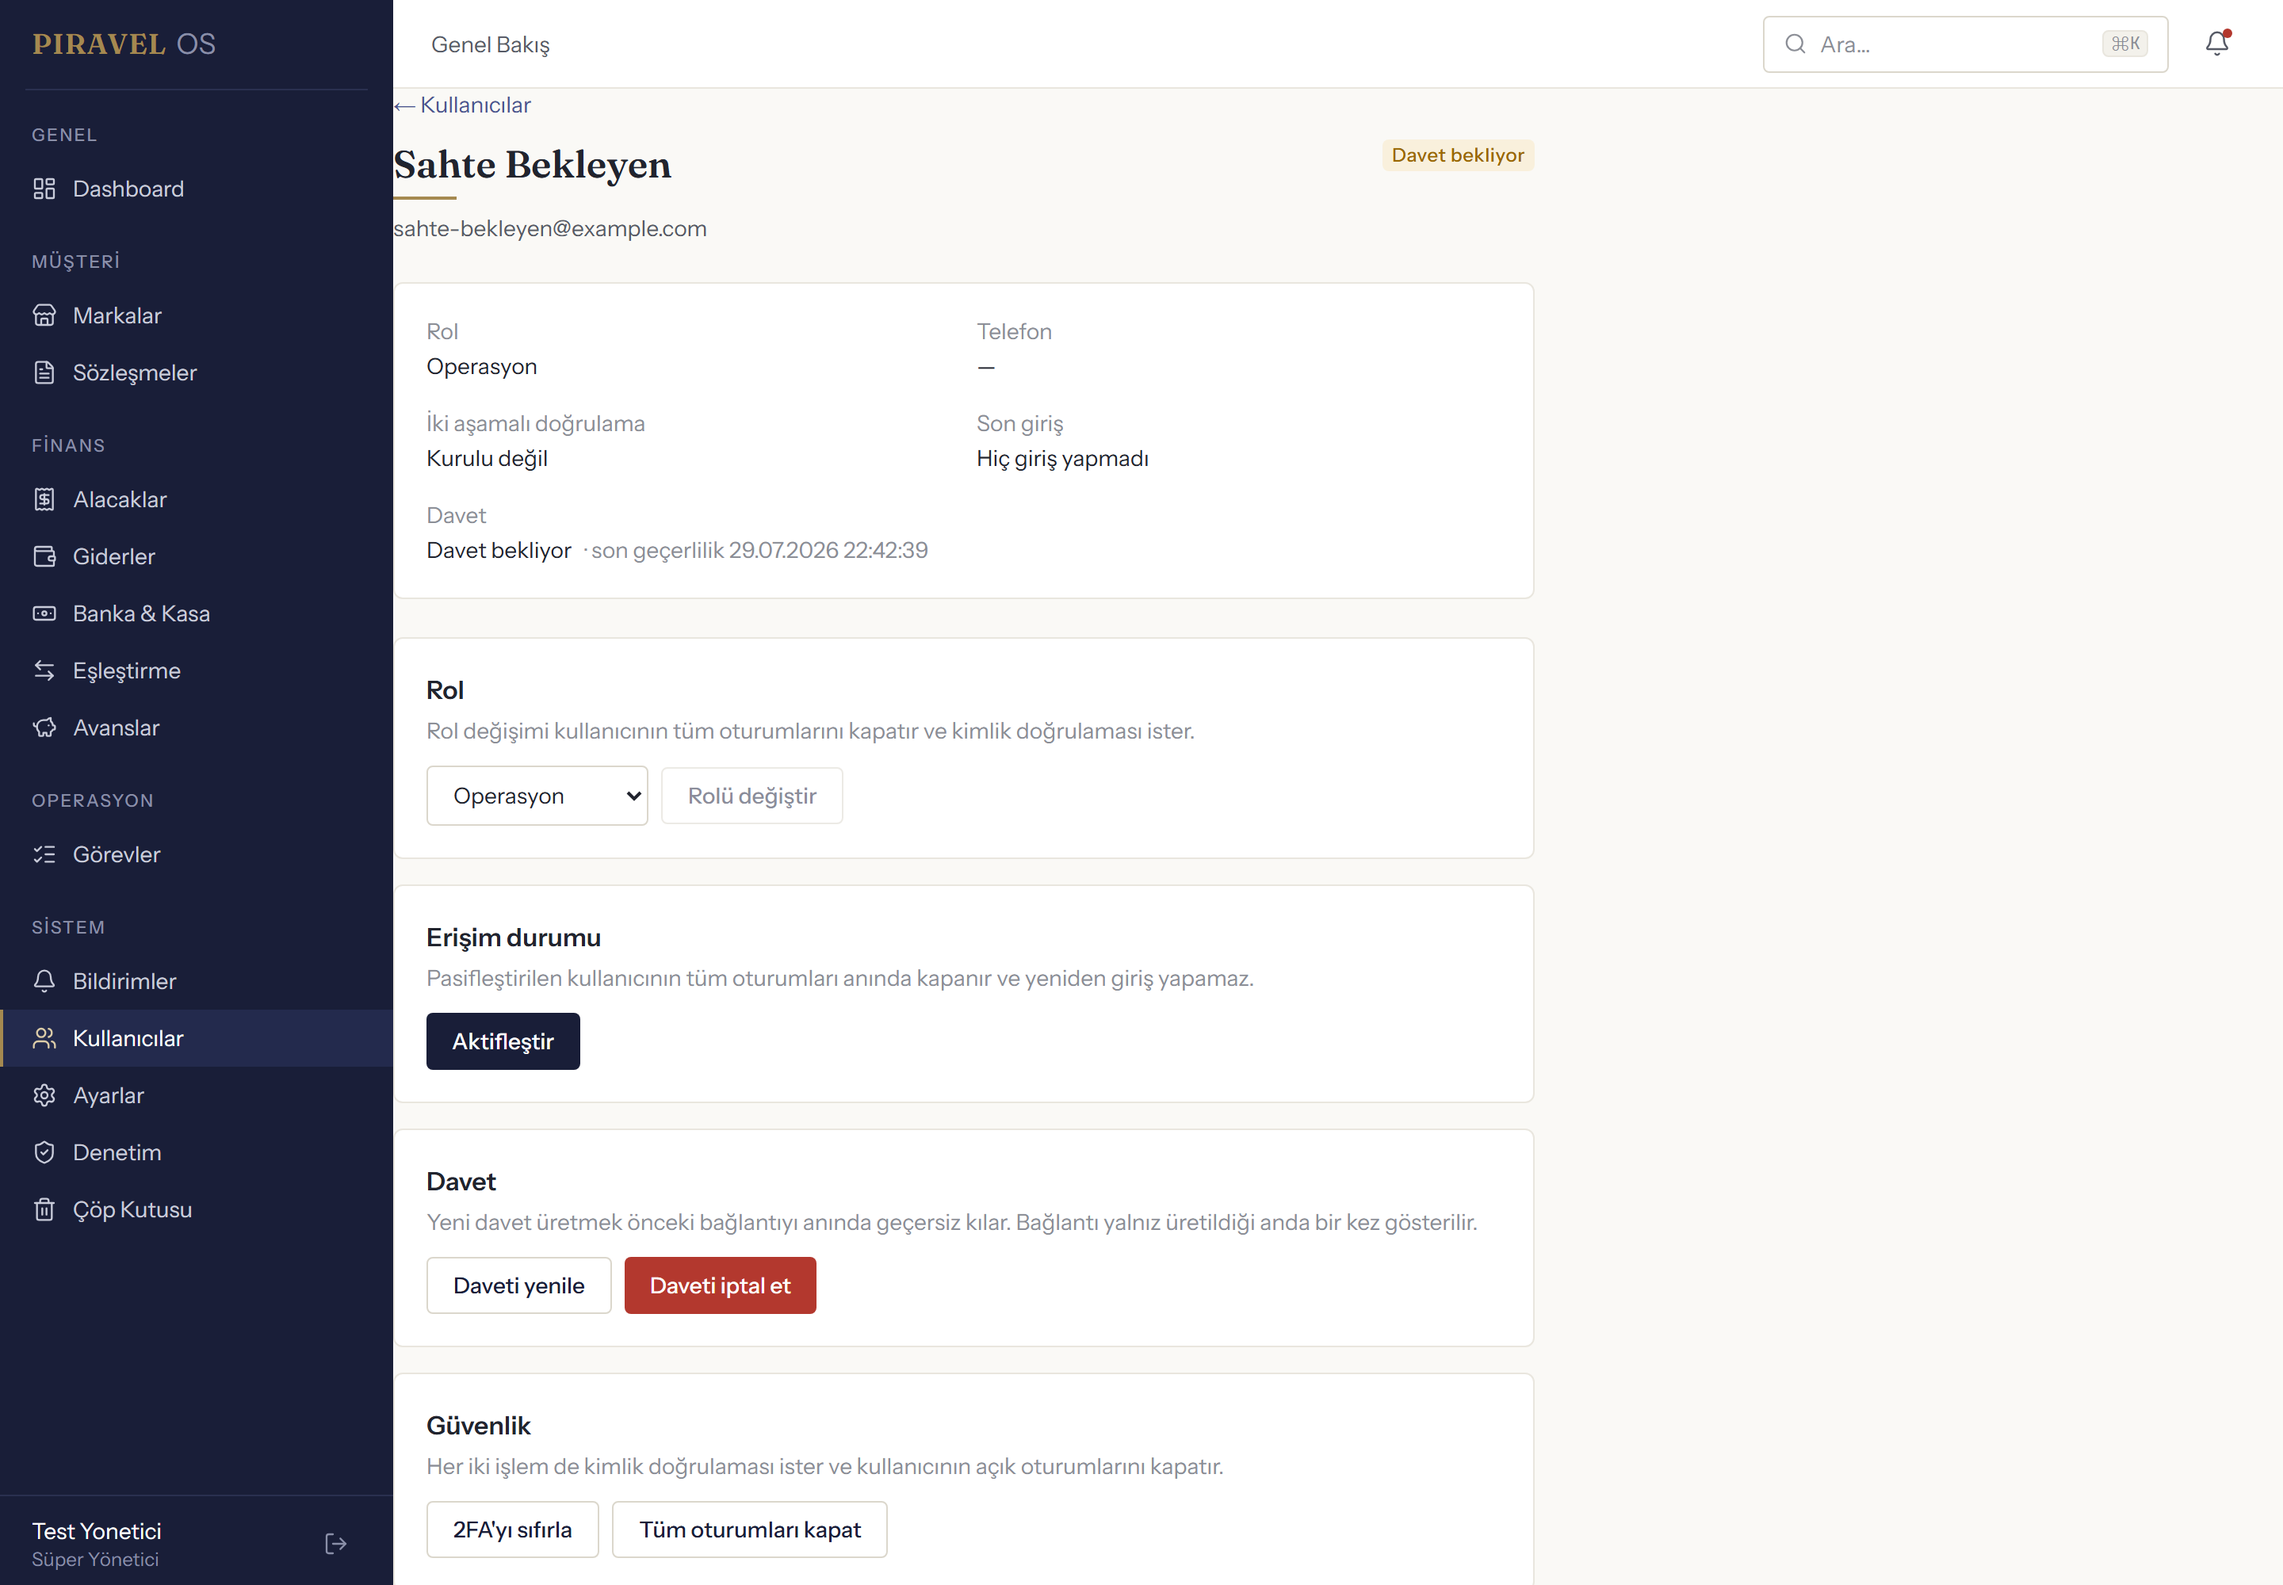
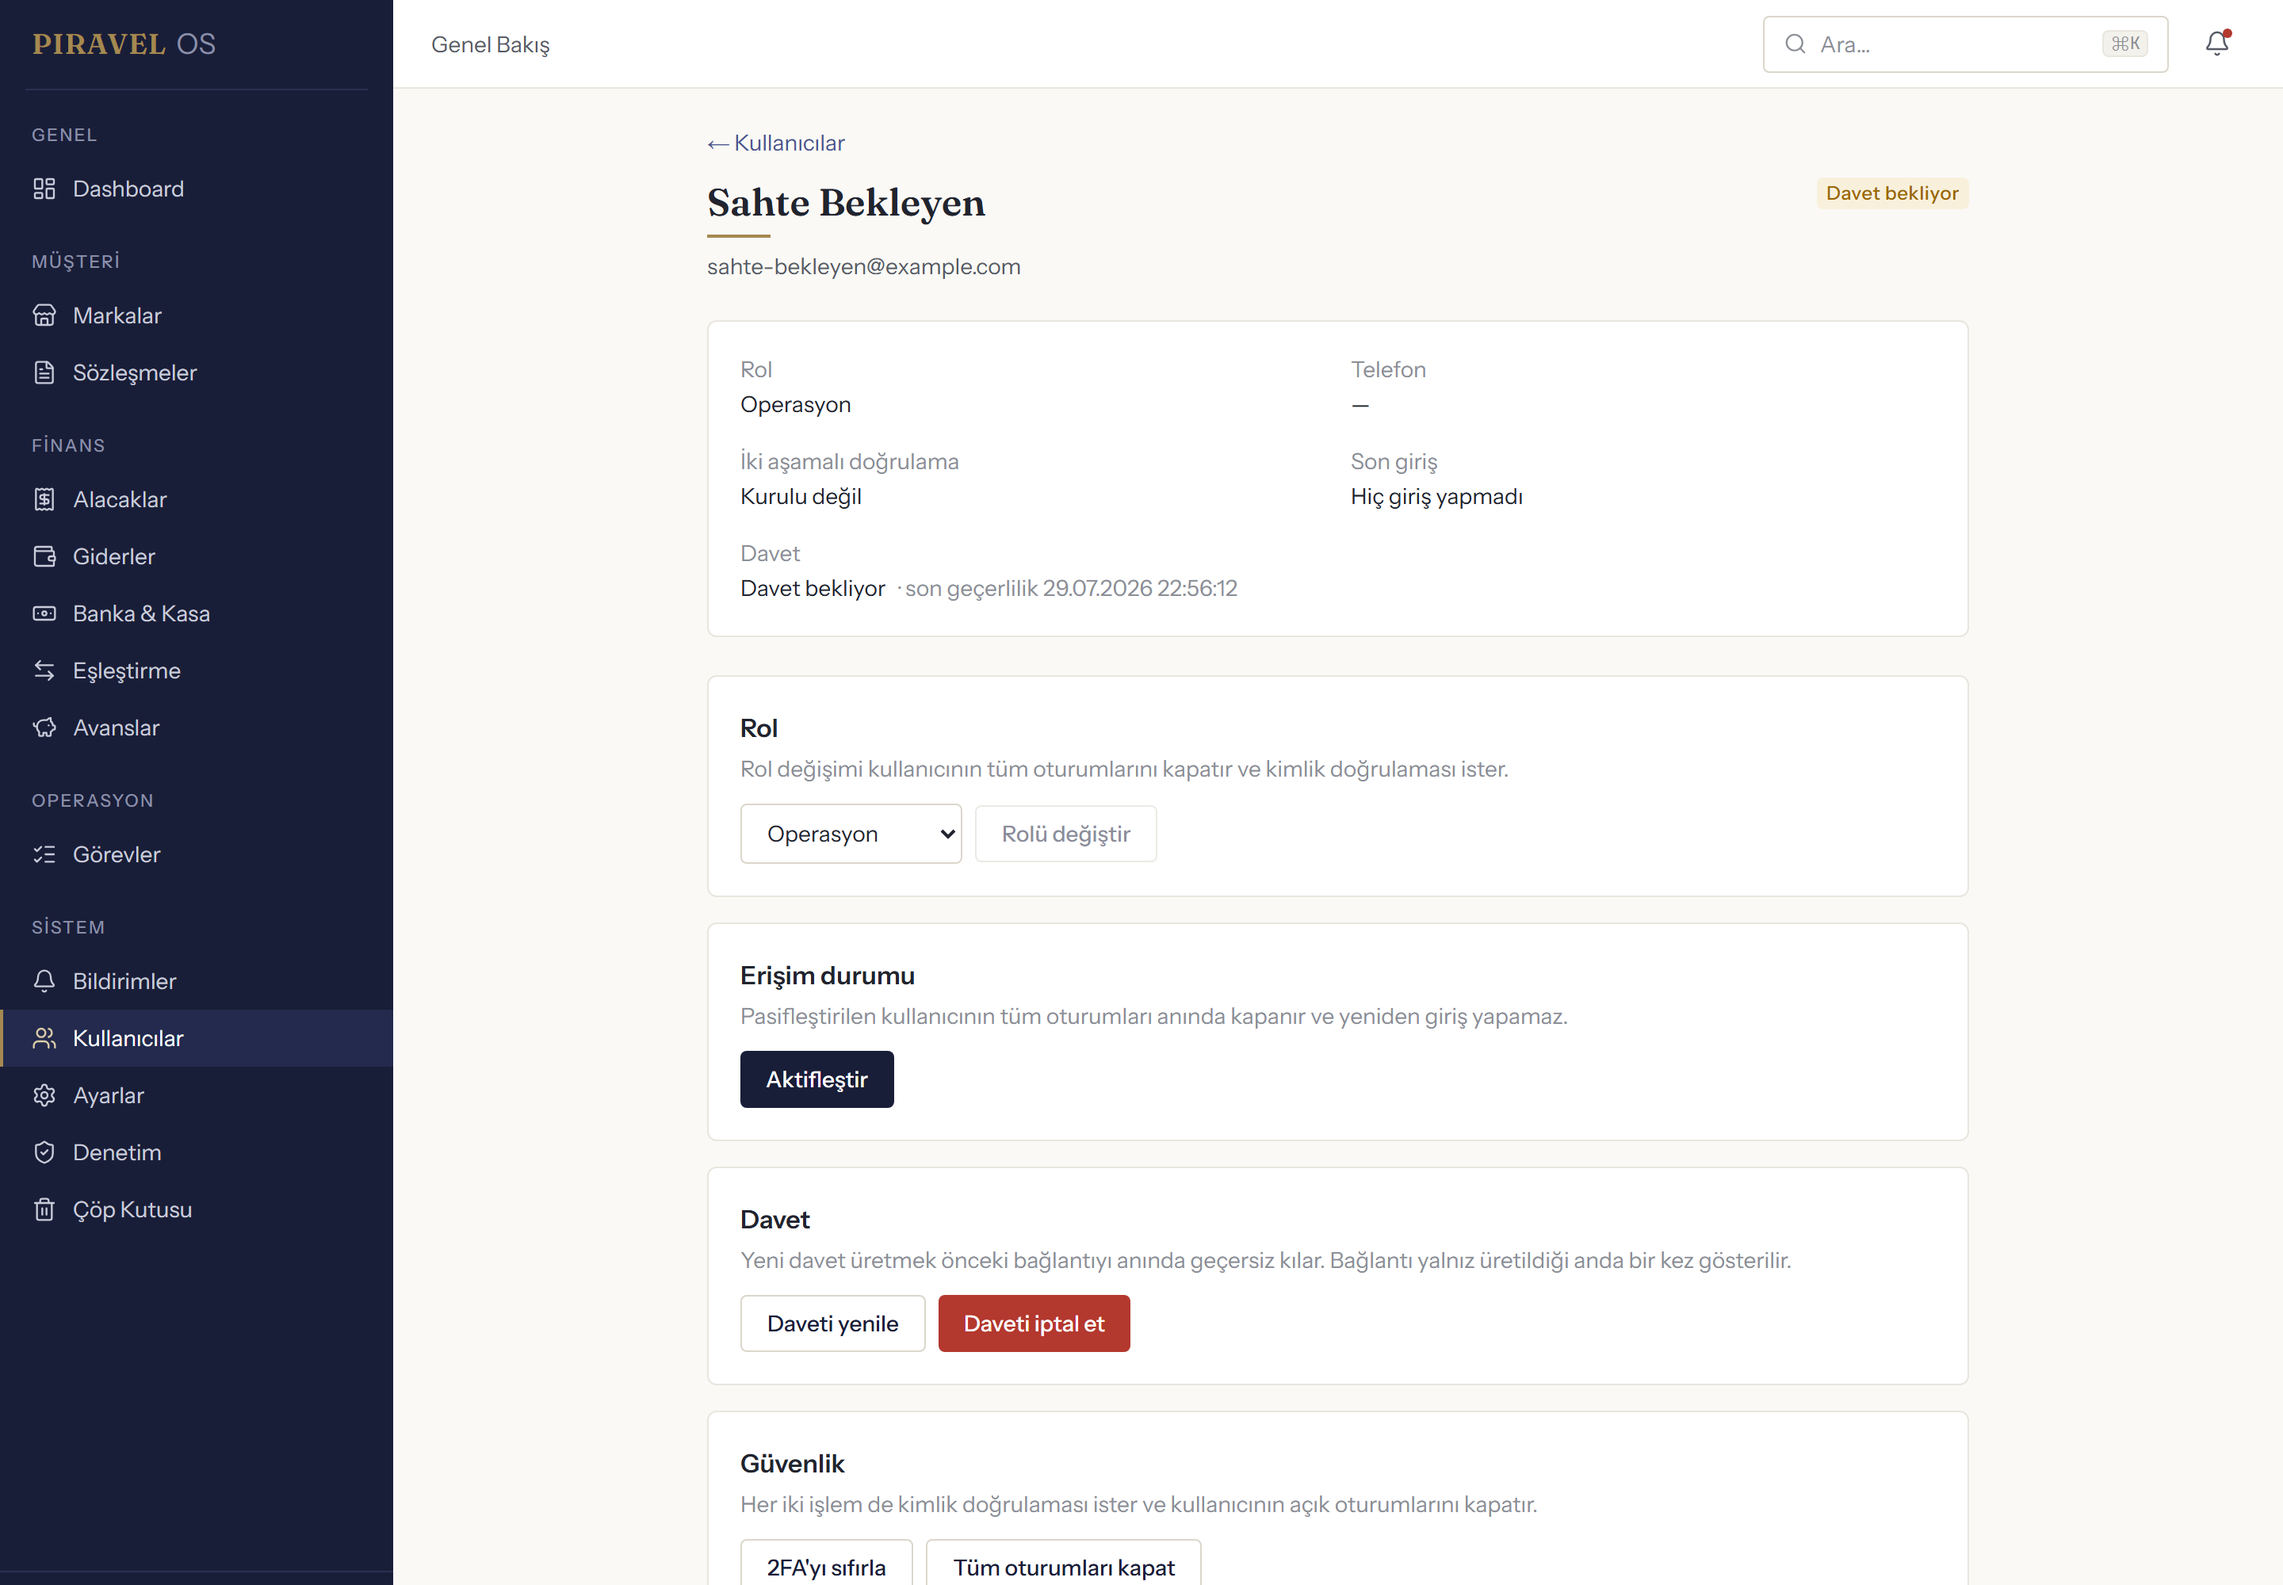
Davet kabulune hiz siniri, Referrer-Policy ve icerik bosluklari
Asama 2'nin kapanis isleri.

Kabul ucuna IP bazli hiz siniri eklendi: 60 saniyede 5 deneme. Better Auth'un
customRules yapilandirmasi yalnizca /api/auth/* uclarina uygulaniyor, bizim
/api/v1 uclarimiz onun kapsami disinda; bu yuzden ayri bir modul yazildi ama
AYNI depoyu (auth_rate_limit) kullaniyor - bellek deposu cok instance'li
uretimde her instance'ta ayri sayar ve limiti fiilen instance sayisi kadar
carpardi. Sayac tek bir INSERT ON CONFLICT ile atomik artiyor; oku-hesapla-yaz
yapilsaydi iki paralel istek arasinda bir artis kaybolur ve limit delinirdi.
Anahtar ham IP degil hash'i - sayac tablosu da kisiyi isaret eden bir depo
haline gelmemeli.

Sinir, davet HIC ARANMADAN once uygulaniyor. Sira onemli: once davet aransaydi
gecerli ve gecersiz token'lar farkli zamanlarda sinira takilir ve yanit suresi
bir varlik oracle'i uretirdi. Sayac yalniz IP'ye bakiyor, hangi davetin
denendigini bilmiyor. Limit yaniti genel mesaj ve Retry-After tasiyor.

Referrer-Policy: no-referrer artik middleware'de, davet akisinin tamamina
veriliyor - /davet/<token>, temiz /davet sayfasi ve kabul ucu. Tek yerden
verilmesinin sebebi rotalardan biri unutuldugunda korumanin dusmemesi.

Kullanici ekranlari PageShell sarmalayicisini kullaniyor; oncesinde icerik
dogrudan sidebar'a yapisiyordu. Olculer dashboard ile ayni: 24px yatay, genis
ekranda 32px. Her sayfanin kendi px degerini yazmasi zamanla tutarsizlik
uretirdi.

Ekran goruntusu fixture'i artik verify-users'in birakabilecegi du-* gecici
[…]

diff --git a/src/lib/rate-limit.ts b/src/lib/rate-limit.ts
@@ -1,0 +1,69 @@
+import { sql } from "drizzle-orm";
+import { db } from "@/db";
+import { ipHash } from "@/lib/auth-lockout";
+
+/**
+ * Kendi uçlarımız için IP bazlı hız sınırı.
+ *
+ * Better Auth'un `rateLimit.customRules` yapılandırması yalnız `/api/auth/*`
+ * uçlarına uygulanır; `/api/v1/*` altındaki uçlarımız onun kapsamı dışındadır.
+ * Bu modül aynı DEPOYU (`auth_rate_limit`) kullanır — bellek deposu çok
+ * instance'lı üretimde her instance'ta ayrı sayar ve limiti fiilen instance
+ * sayısı kadar çarpardı.
+ *
+ * ⚠ Anahtar ham IP DEĞİL, hash'idir (PRD §6.3): sayaç tablosu da kişiyi
+ * işaret eden bir veri deposu hâline gelmemelidir.
+ */
+
+export interface HizSonucu {
+  izinli: boolean;
+  /** Sınıra takıldıysa saniye cinsinden bekleme süresi. */
+  yenidenDeneSn: number;
+}
+
+/**
+ * Sayacı ATOMİK olarak artırır ve kararı döner.
+ *
+ * Tek bir INSERT … ON CONFLICT ifadesi kullanılır. "Oku → hesapla → yaz"
+ * yapılsaydı iki paralel istek arasında bir artış kaybolur ve limit delinirdi.
+ *
+ * Pencere SABİTTİR (sliding değil): ilk istek pencereyi açar, `pencereSn`
+ * sonra sıfırlanır. `last_request` bu yüzden "son istek" değil "pencere
+ * başlangıcı" olarak kullanılır.
+ */
+export async function hizSiniri(input: {
+  kapsam: string;
+  ip: string | null | undefined;
+  limit: number;
+  pencereSn: number;
+}): Promise<HizSonucu> {
+  const anahtar = `${input.kapsam}:${ipHash(input.ip) ?? "bilinmeyen"}`;
+  const simdi = Date.now();
+  const pencereMs = input.pencereSn * 1000;
+  const pencereBasi = simdi - pencereMs;
+
+  const { rows } = (await db.execute(sql`
+    INSERT INTO auth_rate_limit (id, key, count, last_request)
+    VALUES (${anahtar}, ${input.kapsam}, 1, ${simdi})
+    ON CONFLICT (id) DO UPDATE SET
+      count = CASE
+        WHEN auth_rate_limit.last_request < ${pencereBasi} THEN 1
+        ELSE auth_rate_limit.count + 1
+      END,
+      last_request = CASE
+        WHEN auth_rate_limit.last_request < ${pencereBasi} THEN ${simdi}
+        ELSE auth_rate_limit.last_request
+      END
+    RETURNING count, last_request
+  `)) as { rows: Array<{ count: number; last_request: string | number }> };
+
+  const satir = rows[0];
+  if (!satir) return { izinli: true, yenidenDeneSn: 0 };
+
+  const sayac = Number(satir.count);
+  const baslangic = Number(satir.last_request);
+  if (sayac <= input.limit) return { izinli: true, yenidenDeneSn: 0 };
+
+  const kalanMs = baslangic + pencereMs - simdi;
+  return { izinli: false, yenidenDeneSn: Math.max(1, Math.ceil(kalanMs / 1000)) };
+}

diff --git a/src/app/api/v1/davet/kabul/route.ts b/src/app/api/v1/davet/kabul/route.ts
@@ -2,7 +2,9 @@ import { cookies, headers as gelenBasliklar } from "next/headers";
 import { govdeOku, rota, yazmaIstegiDogrula } from "@/lib/api";
 import { yonetimAuditYaz } from "@/lib/admin-audit";
 import { auth } from "@/lib/auth";
+import { MESAJ } from "@/lib/auth-messages";
 import { isTwoFactorRequired, type UserRole } from "@/lib/auth-policy";
+import { hizSiniri } from "@/lib/rate-limit";
 import { davetCereziSil } from "@/lib/davet-cerez";
 import {
   DavetKullanilamaz,
@@ -29,6 +31,32 @@ export async function POST(request: Request) {
   return rota(async () => {
     await yazmaIstegiDogrula(request);
     const rc = buildRequestContext(await gelenBasliklar());
+
+    /**
+     * ⚠ Hız sınırı, davet HİÇ ARANMADAN önce uygulanır.
+     *
+     * Sıra önemlidir: önce davet aransaydı, geçerli ve geçersiz token'lar
+     * farklı zamanlarda sınıra takılır ve yanıt süresi bir varlık oracle'ı
+     * üretirdi. Sayaç yalnız IP'ye bakar; hangi davetin denendiğini bilmez.
+     */
+    const hiz = await hizSiniri({
+      kapsam: "davet-kabul",
+      ip: rc.ipAddress,
+      limit: 5,
+      pencereSn: 60,
+    });
+    if (!hiz.izinli) {
+      return Response.json(
+        { error: { code: "TOO_MANY_REQUESTS", message: MESAJ.cokFazlaDeneme } },
+        {
+          status: 429,
+          headers: {
+            "Retry-After": String(hiz.yenidenDeneSn),
+            "Referrer-Policy": "no-referrer",
+          },
+        },
+      );
+    }
 
     const cerezDeposu = await cookies();
     const cerezKimligi = cerezDeposu.get(DAVET_CEREZ_ADI)?.value ?? "";
@@ -62,6 +90,10 @@ export async function POST(request: Request) {
       });
       // Çerez KABUL ANINDA silinir — sunucu tarafı eşleme zaten düştü
       yanit.headers.append("Set-Cookie", davetCereziSil());
+      // Davet akışının HER yanıtında: token'ın bir sonraki isteğin
+      // Referer'ında sızmaması için (yanıt gövdesi taşımasa da sayfa
+      // geçişlerinde bu başlık geçerli kalır)
+      yanit.headers.set("Referrer-Policy", "no-referrer");
       return yanit;
     } catch (e) {
       if (e instanceof DavetKullanilamaz) {

diff --git a/src/middleware.ts b/src/middleware.ts
@@ -18,8 +18,28 @@ import { NextResponse, type NextRequest } from "next/server";
  */
 const PUBLIC_PREFIXES = ["/giris", "/api/auth", "/wireframe", "/davet", "/api/v1/davet"];
 
+/**
+ * Davet akışının tamamı — `/davet/<token>`, temiz `/davet` sayfası ve kabul ucu.
+ *
+ * Bu yollarda `Referrer-Policy: no-referrer` ZORUNLUDUR: token URL'de geçtiği
+ * için, sayfadan çıkılan herhangi bir bağlantı ya da yüklenen bir kaynak
+ * Referer başlığında token'ı taşırdı. Başlık tek yerden verilir ki rotalardan
+ * biri unutulduğunda koruma düşmesin.
+ */
+const DAVET_PREFIXES = ["/davet", "/api/v1/davet"];
+
+function davetBasliklari(yanit: NextResponse): NextResponse {
+  yanit.headers.set("Referrer-Policy", "no-referrer");
+  yanit.headers.set("Cache-Control", "no-store");
+  return yanit;
+}
+
 export function middleware(request: NextRequest) {
   const { pathname } = request.nextUrl;
+
+  if (DAVET_PREFIXES.some((p) => pathname === p || pathname.startsWith(`${p}/`))) {
+    return davetBasliklari(NextResponse.next());
+  }
 
   if (PUBLIC_PREFIXES.some((p) => pathname.startsWith(p))) {
     return NextResponse.next();

diff --git a/src/app/(app)/kullanicilar/yeni/page.tsx b/src/app/(app)/kullanicilar/yeni/page.tsx
@@ -1,4 +1,5 @@
 import { notFound } from "next/navigation";
+import { PageShell } from "@/components/layout/page-shell";
 import { requireUser } from "@/lib/authz";
 import { kullaniciYonetebilirMi } from "@/lib/user-admin";
 import { YeniKullaniciFormu } from "./yeni-kullanici-formu";
@@ -10,7 +11,7 @@ export default async function YeniKullaniciPage() {
   if (!kullaniciYonetebilirMi(user.role)) notFound();
 
   return (
-    <div className="max-w-[560px]">
+    <PageShell className="max-w-[720px]">
       <h1 className="font-display text-2xl font-semibold text-ink-900">Yeni kullanıcı</h1>
       <div className="mt-1 h-0.5 w-10 bg-gold-500" />
       <p className="mt-2 mb-6 text-sm text-ink-400">
@@ -18,6 +19,6 @@ export default async function YeniKullaniciPage() {
         bağlantısını kullanarak kendisi aktifleştirir.
       </p>
       <YeniKullaniciFormu />
-    </div>
+    </PageShell>
   );
 }

diff --git a/src/app/(app)/kullanicilar/[id]/page.tsx b/src/app/(app)/kullanicilar/[id]/page.tsx
@@ -1,5 +1,6 @@
 import Link from "next/link";
 import { notFound } from "next/navigation";
+import { PageShell } from "@/components/layout/page-shell";
 import { Badge } from "@/components/ui/badge";
 import { requireUser } from "@/lib/authz";
 import { kullaniciDetayi, kullaniciYonetebilirMi } from "@/lib/user-admin";
@@ -33,7 +34,7 @@ export default async function KullaniciDetayPage({
   const kendisi = String(kayit.id) === user.id;
 
   return (
-    <div className="max-w-[720px]">
+    <PageShell className="max-w-[860px]">
       <Link href="/kullanicilar" className="text-sm text-navy-500 hover:underline">
         ← Kullanıcılar
       </Link>
@@ -114,6 +115,6 @@ export default async function KullaniciDetayPage({
           kendisi={kendisi}
         />
       )}
-    </div>
+    </PageShell>
   );
 }

diff --git a/src/app/(app)/kullanicilar/page.tsx b/src/app/(app)/kullanicilar/page.tsx
@@ -1,5 +1,6 @@
 import Link from "next/link";
 import { notFound } from "next/navigation";
+import { PageShell } from "@/components/layout/page-shell";
 import { Badge } from "@/components/ui/badge";
 import { Button } from "@/components/ui/button";
 import { requireUser } from "@/lib/authz";
@@ -23,7 +24,7 @@ export default async function KullanicilarPage() {
   const yonetebilir = kullaniciYonetebilirMi(user.role);
 
   return (
-    <div>
+    <PageShell>
       <div className="mb-6 flex items-end justify-between">
         <div>
           <h1 className="font-display text-2xl font-semibold text-ink-900">Kullanıcılar</h1>
@@ -102,6 +103,6 @@ export default async function KullanicilarPage() {
           </tbody>
         </table>
       </div>
-    </div>
+    </PageShell>
   );
 }

diff --git a/src/components/layout/page-shell.tsx b/src/components/layout/page-shell.tsx
@@ -1,0 +1,22 @@
+import { cn } from "@/lib/utils";
+
+/**
+ * Sayfa içerik kabuğu — kenar boşluğu ve azami genişlik tek yerde.
+ *
+ * Sayfalar bu sarmalayıcıyı kullanmazsa içerik doğrudan sidebar'a yapışır;
+ * her sayfanın kendi `px-` değerini yazması da zamanla tutarsızlık üretir.
+ * Ölçüler dashboard ile aynıdır (06 §3): 24px yatay, geniş ekranda 32px.
+ */
+export function PageShell({
+  children,
+  className,
+}: {
+  children: React.ReactNode;
+  className?: string;
+}) {
+  return (
+    <main className={cn("mx-auto w-full max-w-[1320px] flex-1 px-6 py-6 lg:px-8", className)}>
+      {children}
+    </main>
+  );
+}
